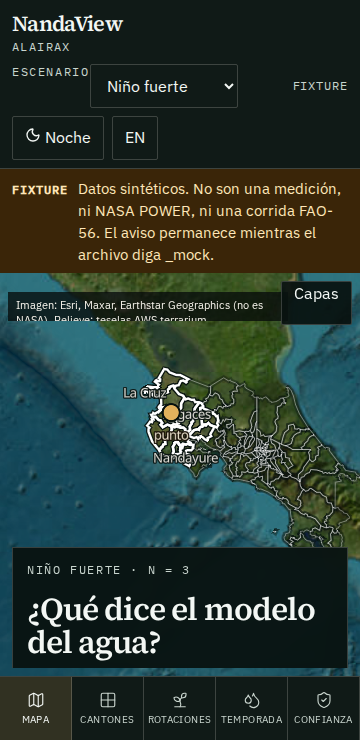
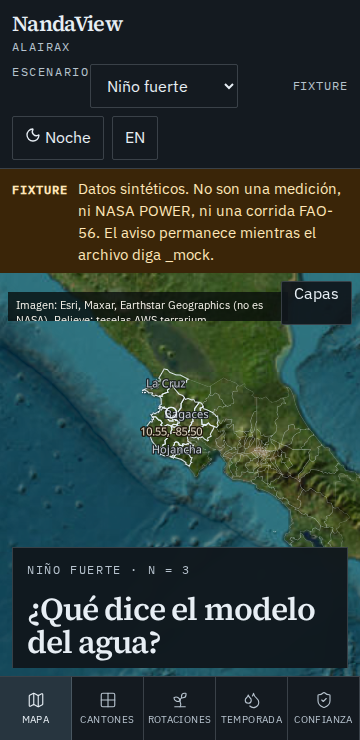
Quitar el aspecto de mapa de estrategia.
Los cantones ya no se pintan como territorios: línea fina, sin relleno ni filete negro. El acento deja de ser dorado y el punto del modelo muestra la coordenada.

Changed region(s): [[0.3361, 0.4973, 1.0, 0.7459], [0.0, 0.9014, 0.2139, 1.0]]

diff --git a/frontend/src/map/NandaMap.tsx b/frontend/src/map/NandaMap.tsx
@@ -44,6 +44,7 @@ function buildStyle(): StyleSpecification {
       },
       openmaptiles: { type: "vector", url: "https://tiles.openfreemap.org/planet" },
       cantons: { type: "geojson", data: EMPTY },
+      labels: { type: "geojson", data: EMPTY },
       hexCoarse: { type: "geojson", data: EMPTY },
       hexMid: { type: "geojson", data: EMPTY },
       hexFine: { type: "geojson", data: EMPTY },
@@ -71,16 +72,14 @@ function buildStyle(): StyleSpecification {
         type: "fill",
         source: "cantons",
         paint: {
-          "fill-color": ["case", ["boolean", ["feature-state", "selected"], false], ["get", "tint"], ["get", "guanacaste"], ["get", "tint"], "#24302c"],
+          "fill-color": "#d7e6f0",
           "fill-opacity": [
             "case",
             ["boolean", ["feature-state", "selected"], false],
-            0.42,
-            ["boolean", ["feature-state", "hover"], false],
-            0.28,
-            ["get", "guanacaste"],
             0.16,
-            0.05,
+            ["boolean", ["feature-state", "hover"], false],
+            0.08,
+            0,
           ],
         },
       },
@@ -124,8 +123,8 @@ function buildStyle(): StyleSpecification {
         source: "cantons",
         paint: {
           "line-color": "#06110e",
-          "line-width": ["interpolate", ["linear"], ["zoom"], 6, 5, 10, 12],
-          "line-opacity": ["case", ["get", "guanacaste"], 0.92, 0.35],
+          "line-width": 0,
+          "line-opacity": 0,
         },
       },
       {
@@ -133,24 +132,24 @@ function buildStyle(): StyleSpecification {
         type: "line",
         source: "cantons",
         paint: {
-          "line-color": ["case", ["boolean", ["feature-state", "selected"], false], "#fff6e4", ["get", "guanacaste"], "#ffffff", "rgba(255,255,255,0.45)"],
-          "line-width": ["case", ["boolean", ["feature-state", "selected"], false], 3.2, ["get", "guanacaste"], 2.4, 0.8],
+          "line-color": ["case", ["boolean", ["feature-state", "selected"], false], "#d7f1ff", ["get", "guanacaste"], "rgba(232,242,248,0.92)", "rgba(232,242,248,0.28)"],
+          "line-width": ["case", ["boolean", ["feature-state", "selected"], false], 1.6, ["get", "guanacaste"], 1.05, 0.4],
         },
       },
       {
         id: "canton-label",
         type: "symbol",
-        source: "cantons",
-        filter: ["==", ["get", "guanacaste"], true],
+        source: "labels",
         layout: {
           "text-field": ["get", "name"],
           "text-font": ["Noto Sans Regular"],
-          "text-size": ["interpolate", ["linear"], ["zoom"], 6, 13, 10, 18],
+          "text-size": ["interpolate", ["linear"], ["zoom"], 6, 11, 10, 14],
+          "text-letter-spacing": 0.04,
         },
         paint: {
-          "text-color": "#f7f4ec",
-          "text-halo-color": "#07110e",
-          "text-halo-width": 1.3,
+          "text-color": "#e7eef4",
+          "text-halo-color": "#0c1014",
+          "text-halo-width": 1.1,
         },
       },
       {
@@ -189,10 +188,10 @@ function buildStyle(): StyleSpecification {
         source: "marks",
         filter: ["==", ["get", "kind"], "model"],
         paint: {
-          "circle-radius": 8,
-          "circle-color": "#e2b15c",
-          "circle-stroke-color": "#07110e",
-          "circle-stroke-width": 2,
+          "circle-radius": 5,
+          "circle-color": "rgba(0,0,0,0)",
+          "circle-stroke-color": "#e7eef4",
+          "circle-stroke-width": 1.5,
         },
       },
       {
@@ -213,9 +212,9 @@ function buildStyle(): StyleSpecification {
         source: "marks",
         filter: ["==", ["get", "kind"], "model"],
         layout: {
-          "text-field": "punto",
+          "text-field": ["get", "label"],
           "text-font": ["Noto Sans Regular"],
-          "text-size": 13,
+          "text-size": 11,
           "text-offset": [0, 1.1],
           "text-anchor": "top",
         },
@@ -328,6 +327,16 @@ export function NandaMap({ hidden, inset }: { hidden: boolean; inset: "panel" | 
     if (!map || !collection) return;
     const apply = () => {
       (map.getSource("cantons") as maplibregl.GeoJSONSource | undefined)?.setData(collection);
+      (map.getSource("labels") as maplibregl.GeoJSONSource | undefined)?.setData({
+        type: "FeatureCollection",
+        features: collection.features
+          .filter((feature) => feature.properties.guanacaste)
+          .map((feature) => ({
+            type: "Feature" as const,
+            properties: { name: feature.properties.name },
+            geometry: { type: "Point" as const, coordinates: feature.properties.center },
+          })),
+      });
       (map.getSource("hexCoarse") as maplibregl.GeoJSONSource | undefined)?.setData(hexMesh(collection, 0.22, "coarse"));
       (map.getSource("hexMid") as maplibregl.GeoJSONSource | undefined)?.setData(hexMesh(collection, 0.12, "mid"));
       (map.getSource("hexFine") as maplibregl.GeoJSONSource | undefined)?.setData(hexMesh(collection, 0.065, "fine"));
@@ -416,11 +425,11 @@ export function NandaMap({ hidden, inset }: { hidden: boolean; inset: "panel" | 
     const map = mapRef.current;
     if (!map) return;
     const zona = comparison.data?.compare?.zona ?? comparison.data?.catalog.zona;
-    const features: { type: "Feature"; properties: { kind: string }; geometry: { type: "Point"; coordinates: [number, number] } }[] = [];
+    const features: { type: "Feature"; properties: { kind: string; label?: string }; geometry: { type: "Point"; coordinates: [number, number] } }[] = [];
     if (zona) {
       features.push({
         type: "Feature" as const,
-        properties: { kind: "model" },
+        properties: { kind: "model", label: `${zona.latitude.toFixed(2)}, ${zona.longitude.toFixed(2)}` },
         geometry: { type: "Point" as const, coordinates: [zona.longitude, zona.latitude] },
       });
     }

diff --git a/frontend/src/index.css b/frontend/src/index.css
@@ -1,15 +1,15 @@
 :root,
 [data-theme="night"] {
   color-scheme: dark;
-  --bg: #07110e;
-  --bg-2: #101a17;
-  --elev: rgba(8, 18, 16, 0.94);
-  --ink: #f3f7f4;
-  --muted: #c9d5ce;
-  --faint: #a9bbb2;
-  --line: rgba(243, 239, 228, 0.2);
-  --accent: #e2b15c;
-  --accent-ink: #1c1408;
+  --bg: #0c1014;
+  --bg-2: #141a20;
+  --elev: rgba(16, 22, 28, 0.94);
+  --ink: #e7eef4;
+  --muted: #b7c3ce;
+  --faint: #8ea0ae;
+  --line: rgba(210, 224, 234, 0.2);
+  --accent: #8ec8e8;
+  --accent-ink: #071018;
   --alarm-bg: #3a2508;
   --alarm-ink: #ffe7b8;
   --danger: #ffb4a4;
@@ -22,15 +22,15 @@
 
 [data-theme="sun"] {
   color-scheme: light;
-  --bg: #f4f0e6;
-  --bg-2: #fffaf1;
-  --elev: #fffaf1;
-  --ink: #14191c;
-  --muted: #24312c;
-  --faint: #3c4a44;
-  --line: rgba(20, 25, 28, 0.28);
-  --accent: #8a4b12;
-  --accent-ink: #fffaf1;
+  --bg: #f3f6f8;
+  --bg-2: #ffffff;
+  --elev: #ffffff;
+  --ink: #12171c;
+  --muted: #24303a;
+  --faint: #3d4c58;
+  --line: rgba(18, 23, 28, 0.22);
+  --accent: #0b4f6c;
+  --accent-ink: #f3f6f8;
   --alarm-bg: #2a1606;
   --alarm-ink: #ffe7b8;
   --danger: #8a2e16;
@@ -77,9 +77,7 @@ img, svg { max-width: 100%; }
   height: 100dvh;
   display: flex;
   flex-direction: column;
-  background:
-    radial-gradient(1200px 400px at 10% -10%, rgba(226, 177, 92, 0.08), transparent 50%),
-    var(--bg);
+  background: var(--bg);
 }
 
 .topbar {
@@ -102,6 +100,15 @@ img, svg { max-width: 100%; }
 }
 .spacer { flex: 1; }
 .only-mobile { display: none; }
+.layers-fab {
+  display: none;
+  position: absolute;
+  z-index: 3;
+  top: 8px;
+  right: 8px;
+  min-height: 44px;
+  background: var(--elev);
+}
 .scenario-select { min-width: 148px; }
 .mode-pill {
   font-family: var(--mono);
@@ -216,6 +223,8 @@ img, svg { max-width: 100%; }
   letter-spacing: 0.04em;
   text-transform: uppercase;
 }
+.layer-btn .thumb { display: none; }
+.layer-btn { width: 76px; min-height: 36px; }
 .layer-btn[aria-pressed="true"] { border-color: var(--accent); color: var(--accent); }
 .thumb { width: 44px; height: 28px; display: block; }
 
@@ -345,17 +354,19 @@ caption { text-align: left; font-family: var(--serif); font-size: 1.3rem; paddin
   .hide-mobile { display: none !important; }
   .only-mobile { display: flex; }
   .left-hud { top: auto; bottom: 8px; max-height: 34%; }
-  .right-hud {
-    top: 8px;
-    left: 8px;
-    right: 8px;
-    flex-direction: row;
-    overflow-x: auto;
-    max-width: calc(100% - 16px);
-  }
-  .layer-btn { width: 58px; min-height: 44px; flex: 0 0 auto; }
+  .right-hud { display: none; }
+  .layers-fab { display: inline-flex; }
   .bottom-hud { display: none; }
-  .attrib { top: auto; bottom: 38%; left: 8px; right: 8px; }
+  .attrib {
+    top: 8px;
+    bottom: auto;
+    left: 8px;
+    right: 72px;
+    max-width: none;
+    max-height: 2.7em;
+    overflow: hidden;
+  }
+  .left-hud { max-height: 30%; }
   .topbar { gap: 8px; }
   .plate { grid-template-columns: 1fr; min-height: auto; padding: 20px 16px 32px; }
   .year-grid, .split { grid-template-columns: 1fr; }

diff --git a/docs/ui-decisions.md b/docs/ui-decisions.md
@@ -30,7 +30,7 @@ Capas, de abajo hacia arriba:
 6. Placas 3D de cantón, optativas, misma idea: altura constante, color de identidad.
 7. Calles y poblados de OpenFreeMap (dato OSM, esquema OpenMapTiles), desde un zoom cercano. No se usa `tile.openstreetmap.org`. La atribución de OSM aparece cuando la capa está encendida, y el crédito de límites y de imagen está siempre.
 
-La cámara se queda en planta. Una vista inclinada con relieve exagerado se leía como un juego, no como un mapa de trabajo. El relieve, si está encendido, es una sombra suave sobre la fotografía, sin levantar el terreno. El punto del modelo es el `zona` de la respuesta, no un marcador fijo en el código.
+La cámara se queda en planta. El borde de los cantones es una línea fina, sin relleno de territorio ni filete negro: el contorno grueso se leía como un mapa de estrategia, no como un instrumento. El acento es un cian de lectura, no un dorado. El punto del modelo se marca con la coordenada, no con una ficha. El punto del modelo es el `zona` de la respuesta, no un marcador fijo en el código.
 
 ## Datos
 
